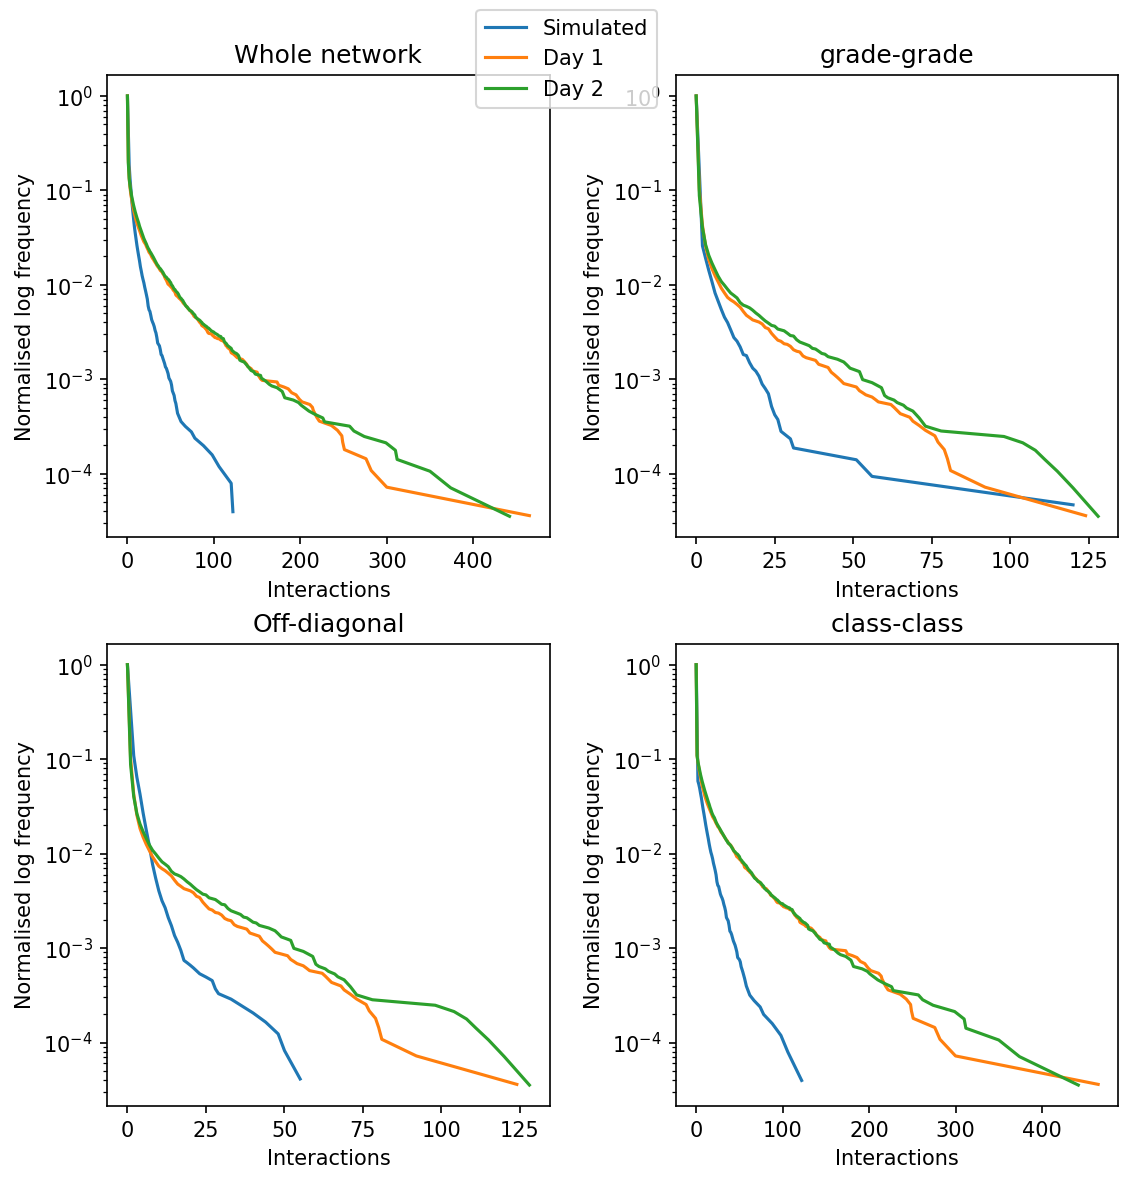
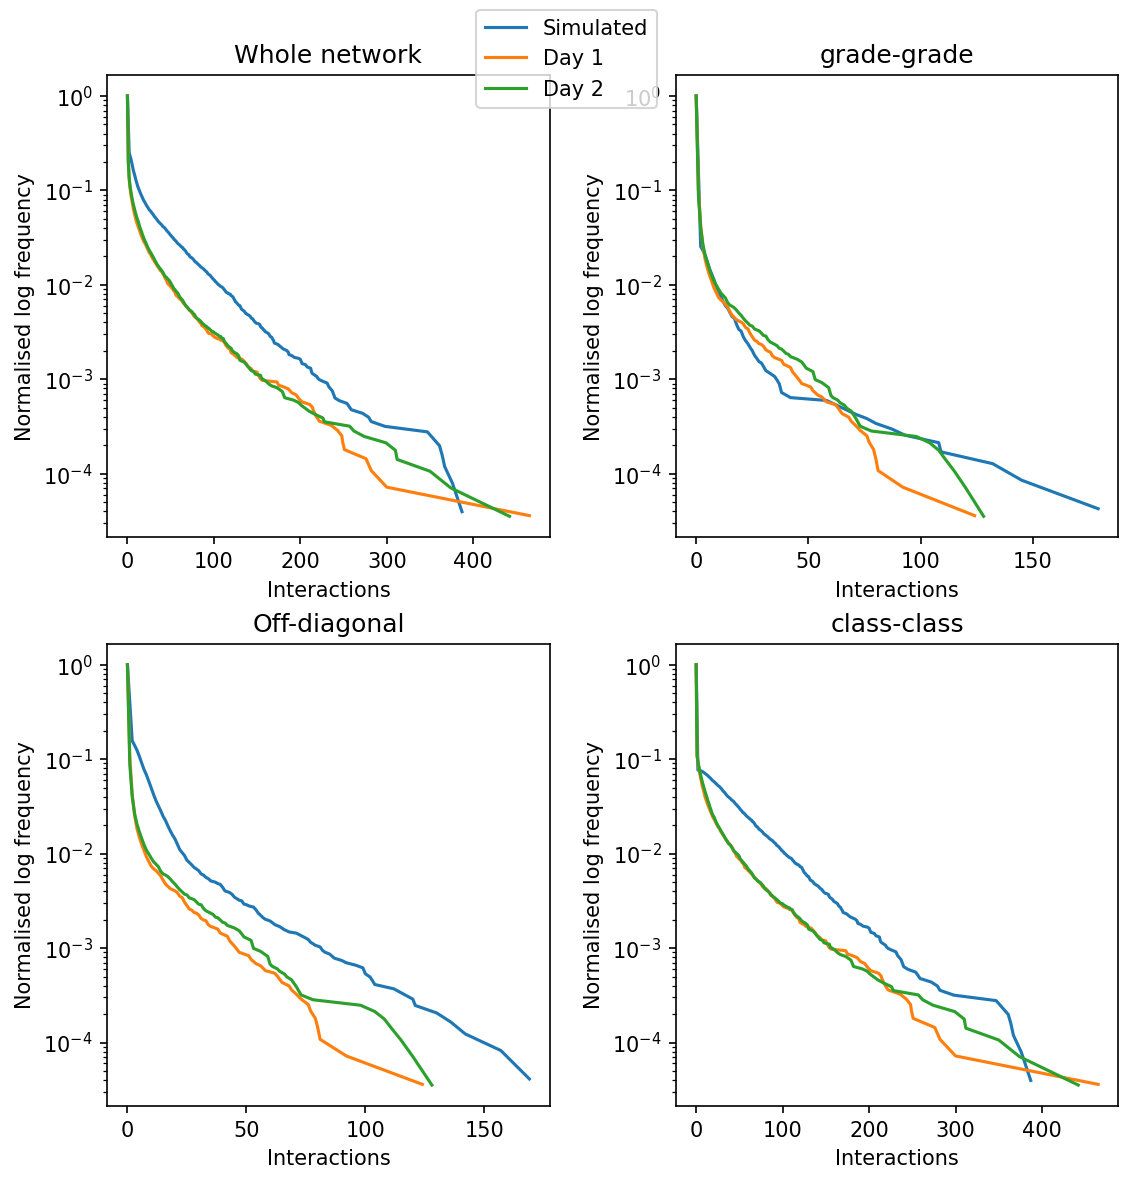
Adjusted parameters

diff --git a/person.py b/person.py
@@ -260,18 +260,18 @@ class Person:
         else:
             ## Off-diagonal excluding lunch
             a1 = 3  # 1.5
-            b1 = 0.5  # 0.1
+            b1 = 0.8  # 0.1
             ##  Off-diagonal with lunch
             a2 = 0.1  # 0.001
             b2 = 0.1  # 0.07
 
             ## Grade-Grade
-            a3 = 15  # 100
-            b3 = 0.09  # 0.3
+            a3 = 1  # 100
+            b3 = 0.8  # 0.3
 
             ## Class-Class
-            a4 = 3  # 10000
-            b4 = 100  # 1
+            a4 = 10  # 10000
+            b4 = 15  # 1
 
         for i in range(len(students)):
             same_lunch = self.lunch_group == students[i].lunch_group

diff --git a/analysis.py b/analysis.py
@@ -742,7 +742,7 @@ class Analysis:
 
         degs = {}
         for n in G.nodes():
-            deg = G.degree(n, weight="weight")
+            deg = G.degree(n, weight="count")
             degs[n] = deg
 
         items = sorted(degs.items())
@@ -769,5 +769,5 @@ class Analysis:
         ax2.set_ylabel("Frequency")
 
         fig.tight_layout()
-        plt.savefig("./fig_master/full_analysis.png", transparent=True, dpi=500)
+        #plt.savefig("./fig_master/full_analysis.png", transparent=True, dpi=500)
         plt.show()

diff --git a/main.py b/main.py
@@ -16,10 +16,11 @@ def main():
 
     analysis = Analysis(network)
 
-    G = network.generate_iterations(3)
+    G = network.generate_iterations(10)
 
     analysis.pixel_dist_school(G, old=True, both=True)
     analysis.degree_distribution_layers(sim=G, experimental=True, both=True)
+    analysis.heatmap(G)
     analysis.runAnalysis2(G)
 
 
